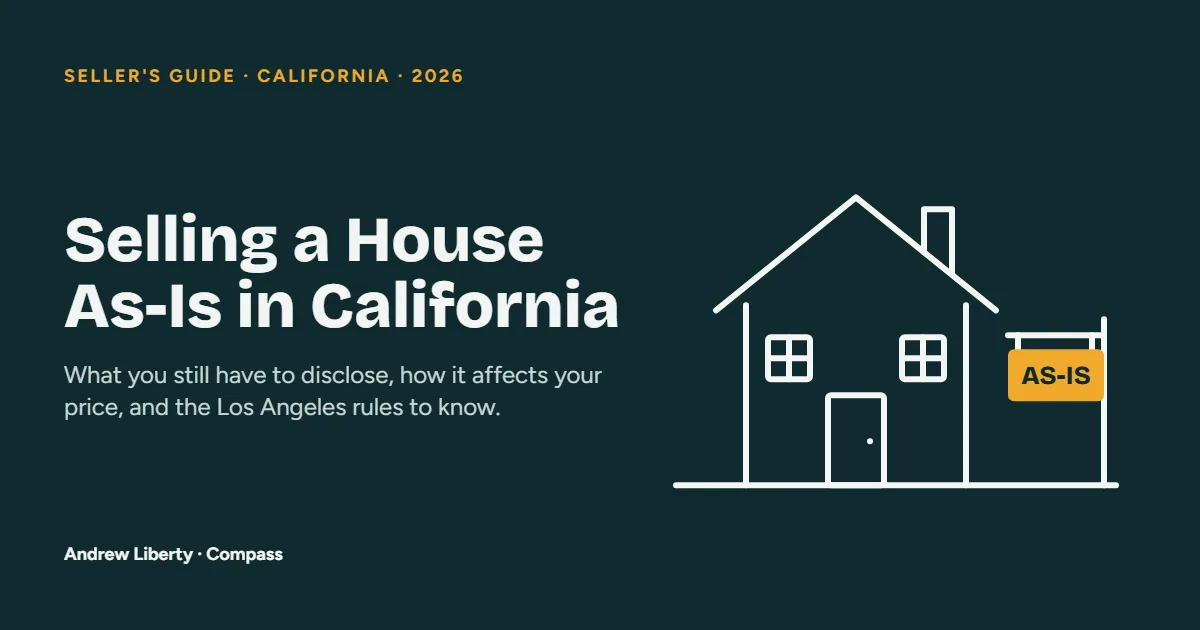
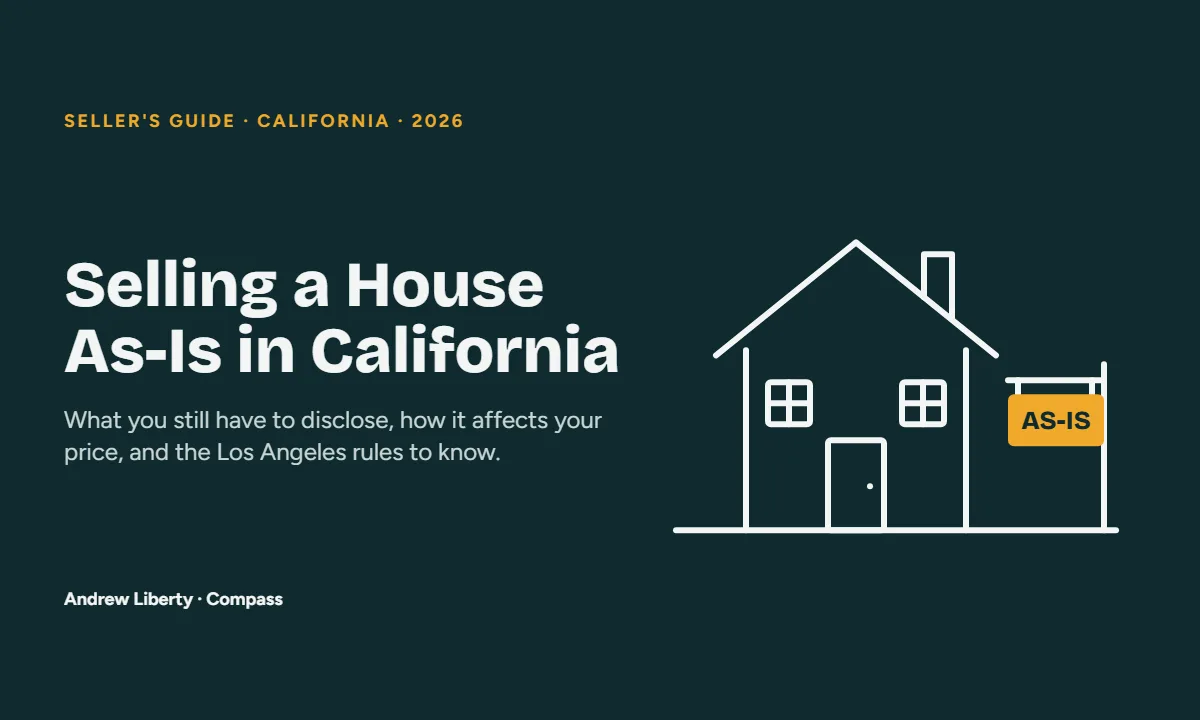
fixes

diff --git a/app/blog/posts.ts b/app/blog/posts.ts
@@ -5,6 +5,14 @@ export type Post = {
   date: string;
   read: string;
   img: string;
+  /**
+   * The hero artwork's real pixel size. The article page sizes the hero box
+   * from these, so each image shows at its own shape instead of being cropped
+   * into one fixed ratio — the artwork carries its title as type, and a crop
+   * takes the type first.
+   */
+  imgWidth: number;
+  imgHeight: number;
   slug: string;
   /**
    * SEO copy supplied with the article, when it differs from what the page
@@ -66,6 +74,8 @@ const FEATURED_RAW: RawPost = {
   date: "Sep 21, 2026",
   read: "9 min read",
   img: "/images/blog/tips-for-showing-your-house.webp",
+  imgWidth: 1619,
+  imgHeight: 971,
   tags: ["Selling Strategy", "Home Showings", "Open House", "Seller Checklist"],
 };
 
@@ -91,6 +101,13 @@ const POSTS_RAW: RawPost[] = [
     /* About twice the length of the other two posts, so the label says so. */
     read: "17 min read",
     img: "/images/blog/selling-a-house-as-is-in-california.webp",
+    /* Supplied at 1200x630 (1.9:1) with its type close to both edges, so the
+       16:10 cards cut "Seller's" and the sign. The webp is that artwork with
+       45px of its own flat #0f2a2e background added top and bottom, making it
+       5:3 like the other two posts — every card then crops it as gently as
+       theirs. */
+    imgWidth: 1200,
+    imgHeight: 720,
     tags: ["Selling Strategy", "As-Is Sales", "Seller Disclosures", "Cash Offers", "Los Angeles"],
   },
   {
@@ -110,6 +127,8 @@ const POSTS_RAW: RawPost[] = [
        other on word count, so a different number would just read as noise. */
     read: "9 min read",
     img: "/images/blog/tips-to-sell-your-home-in-the-fall.webp",
+    imgWidth: 1619,
+    imgHeight: 971,
     tags: ["Selling Strategy", "Fall Market", "Home Staging", "Curb Appeal", "Seller Checklist"],
   },
 ];

diff --git a/app/blog/blog.css b/app/blog/blog.css
@@ -192,11 +192,13 @@
    of its own, which takes another 48px of gutter off the inside — so the hero
    actually rendered at 952px, narrower than every section below it. */
 .ar-hero-img { max-width: var(--container); margin: 0 auto; padding: 8px 0 0; }
-/* 5/3 is the artwork's own shape (1619x971 = 1.667). It was 16/8, which is
-   2.000 — a 16.6% crop off a hero that carries its title inside the image, so
-   the type was the first thing to go. Matching the source means nothing is cut,
-   and the taller box is what makes it read bigger: 952x476 -> 1152x691. */
-.ar-hero-img img { width: 100%; height: auto; aspect-ratio: 5 / 3; object-fit: cover; border-radius: var(--radius-lg); display: block; }
+/* No fixed aspect-ratio. The heroes carry their title as type inside the
+   image, so any crop cuts the words first. This was 16/8, then 5/3 to fit the
+   first two posts' 1619x971 artwork — which then cut ~12% off the sides of the
+   1200x630 as-is post. Now each hero keeps its own shape: the width/height
+   attributes on the <img> (from Post.imgWidth/imgHeight) give the browser the
+   ratio to reserve, so there is still no layout shift while it loads. */
+.ar-hero-img img { width: 100%; height: auto; border-radius: var(--radius-lg); display: block; }
 
 /* Prose */
 .ar-body { padding: 44px 0 8px; }

diff --git a/app/blog/[slug]/page.tsx b/app/blog/[slug]/page.tsx
@@ -118,7 +118,7 @@ export default async function ArticlePage({ params }: { params: Promise<{ slug: 
       <div className="ar-hero-img">
         <div className="container">
           {/* eslint-disable-next-line @next/next/no-img-element */}
-          <img src={post.img} alt={post.title} />
+          <img src={post.img} alt={post.title} width={post.imgWidth} height={post.imgHeight} />
         </div>
       </div>
 
